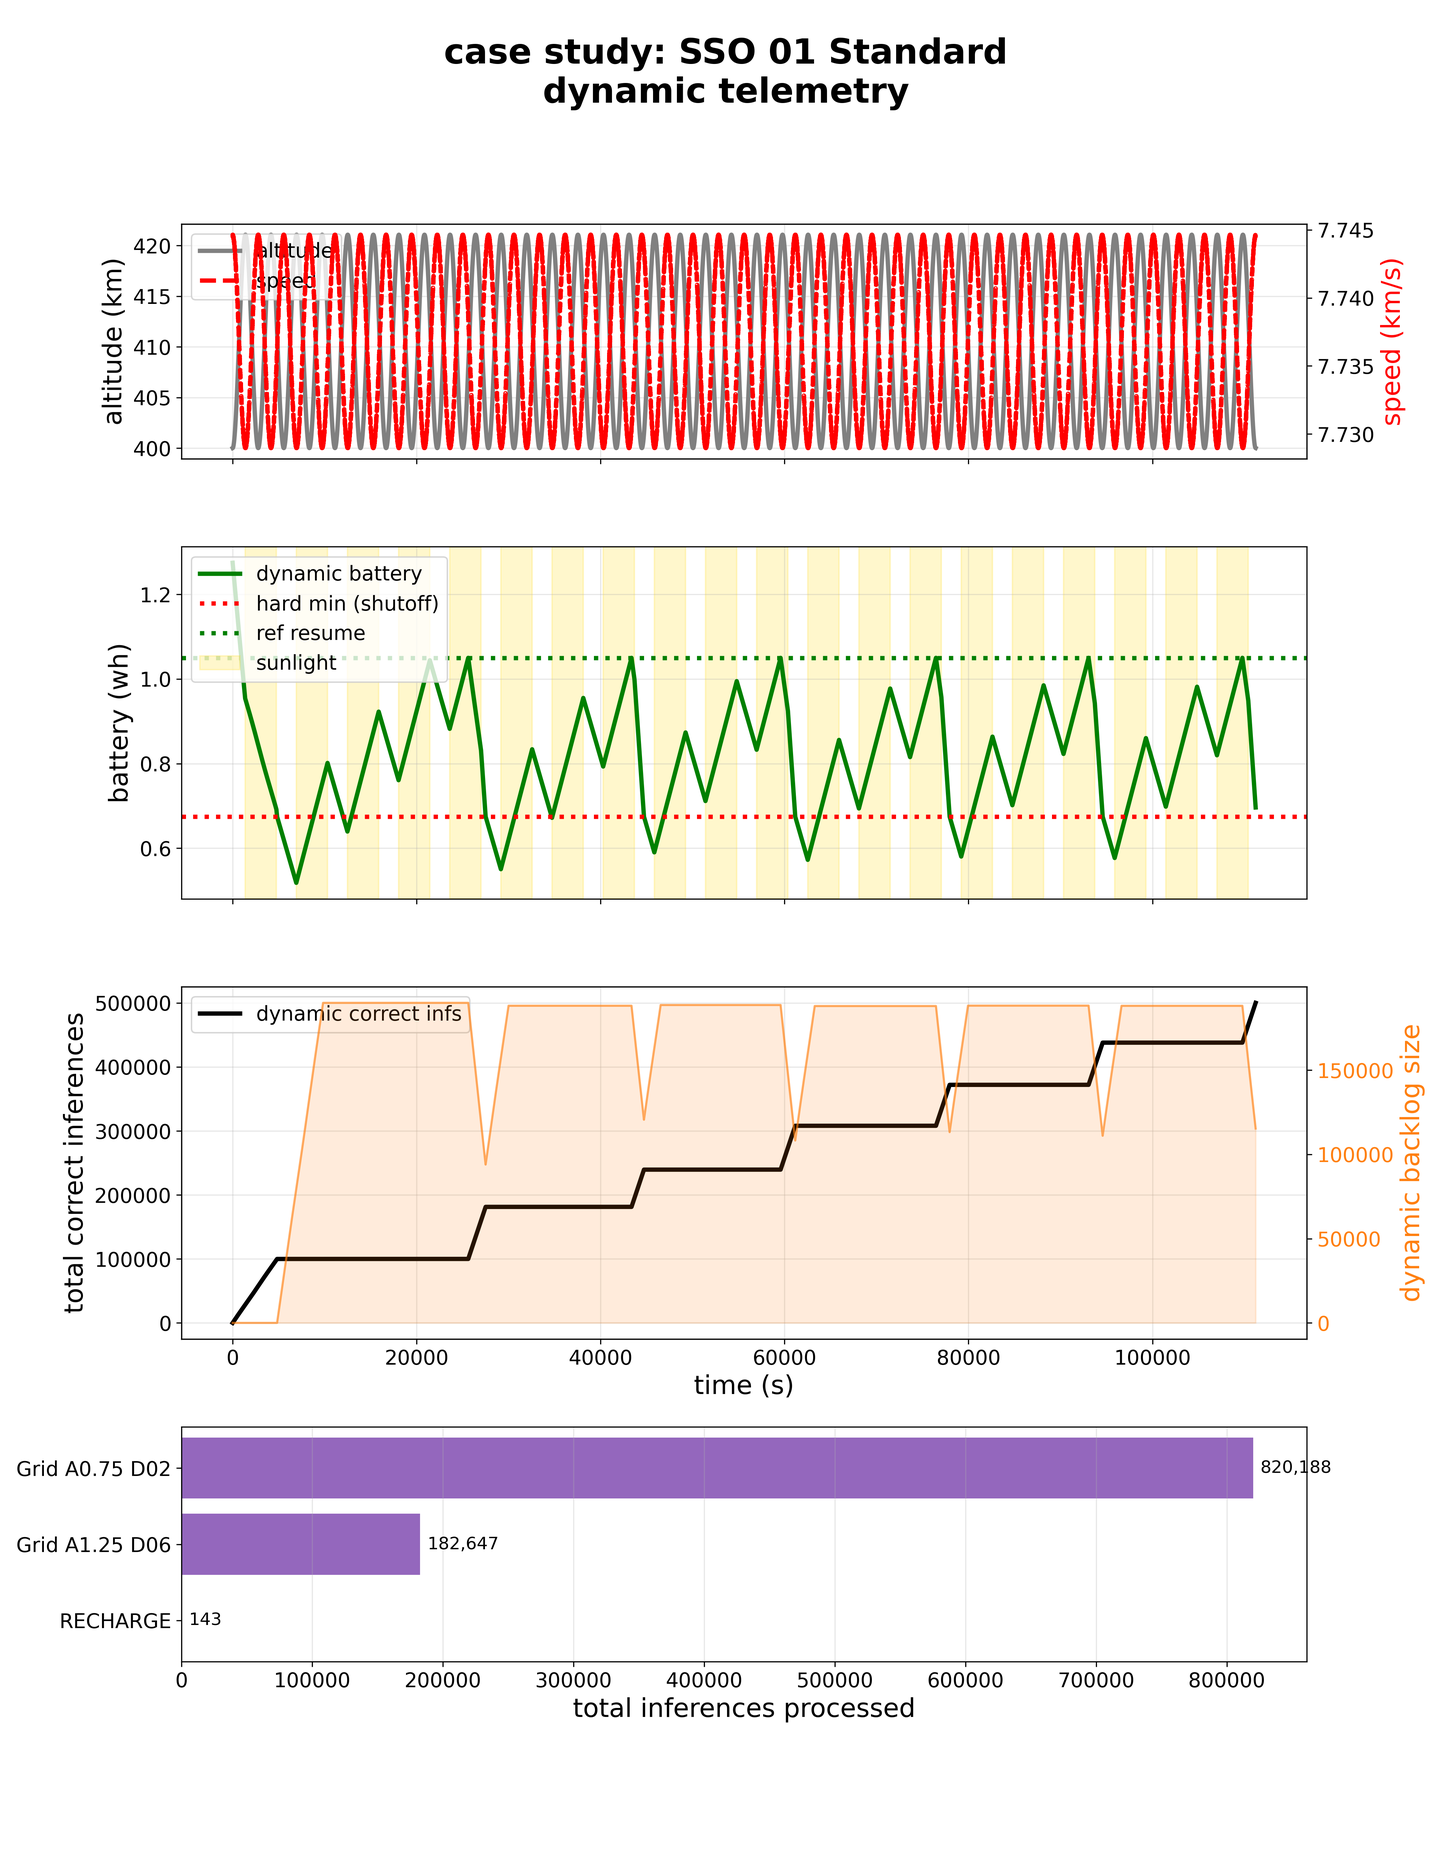
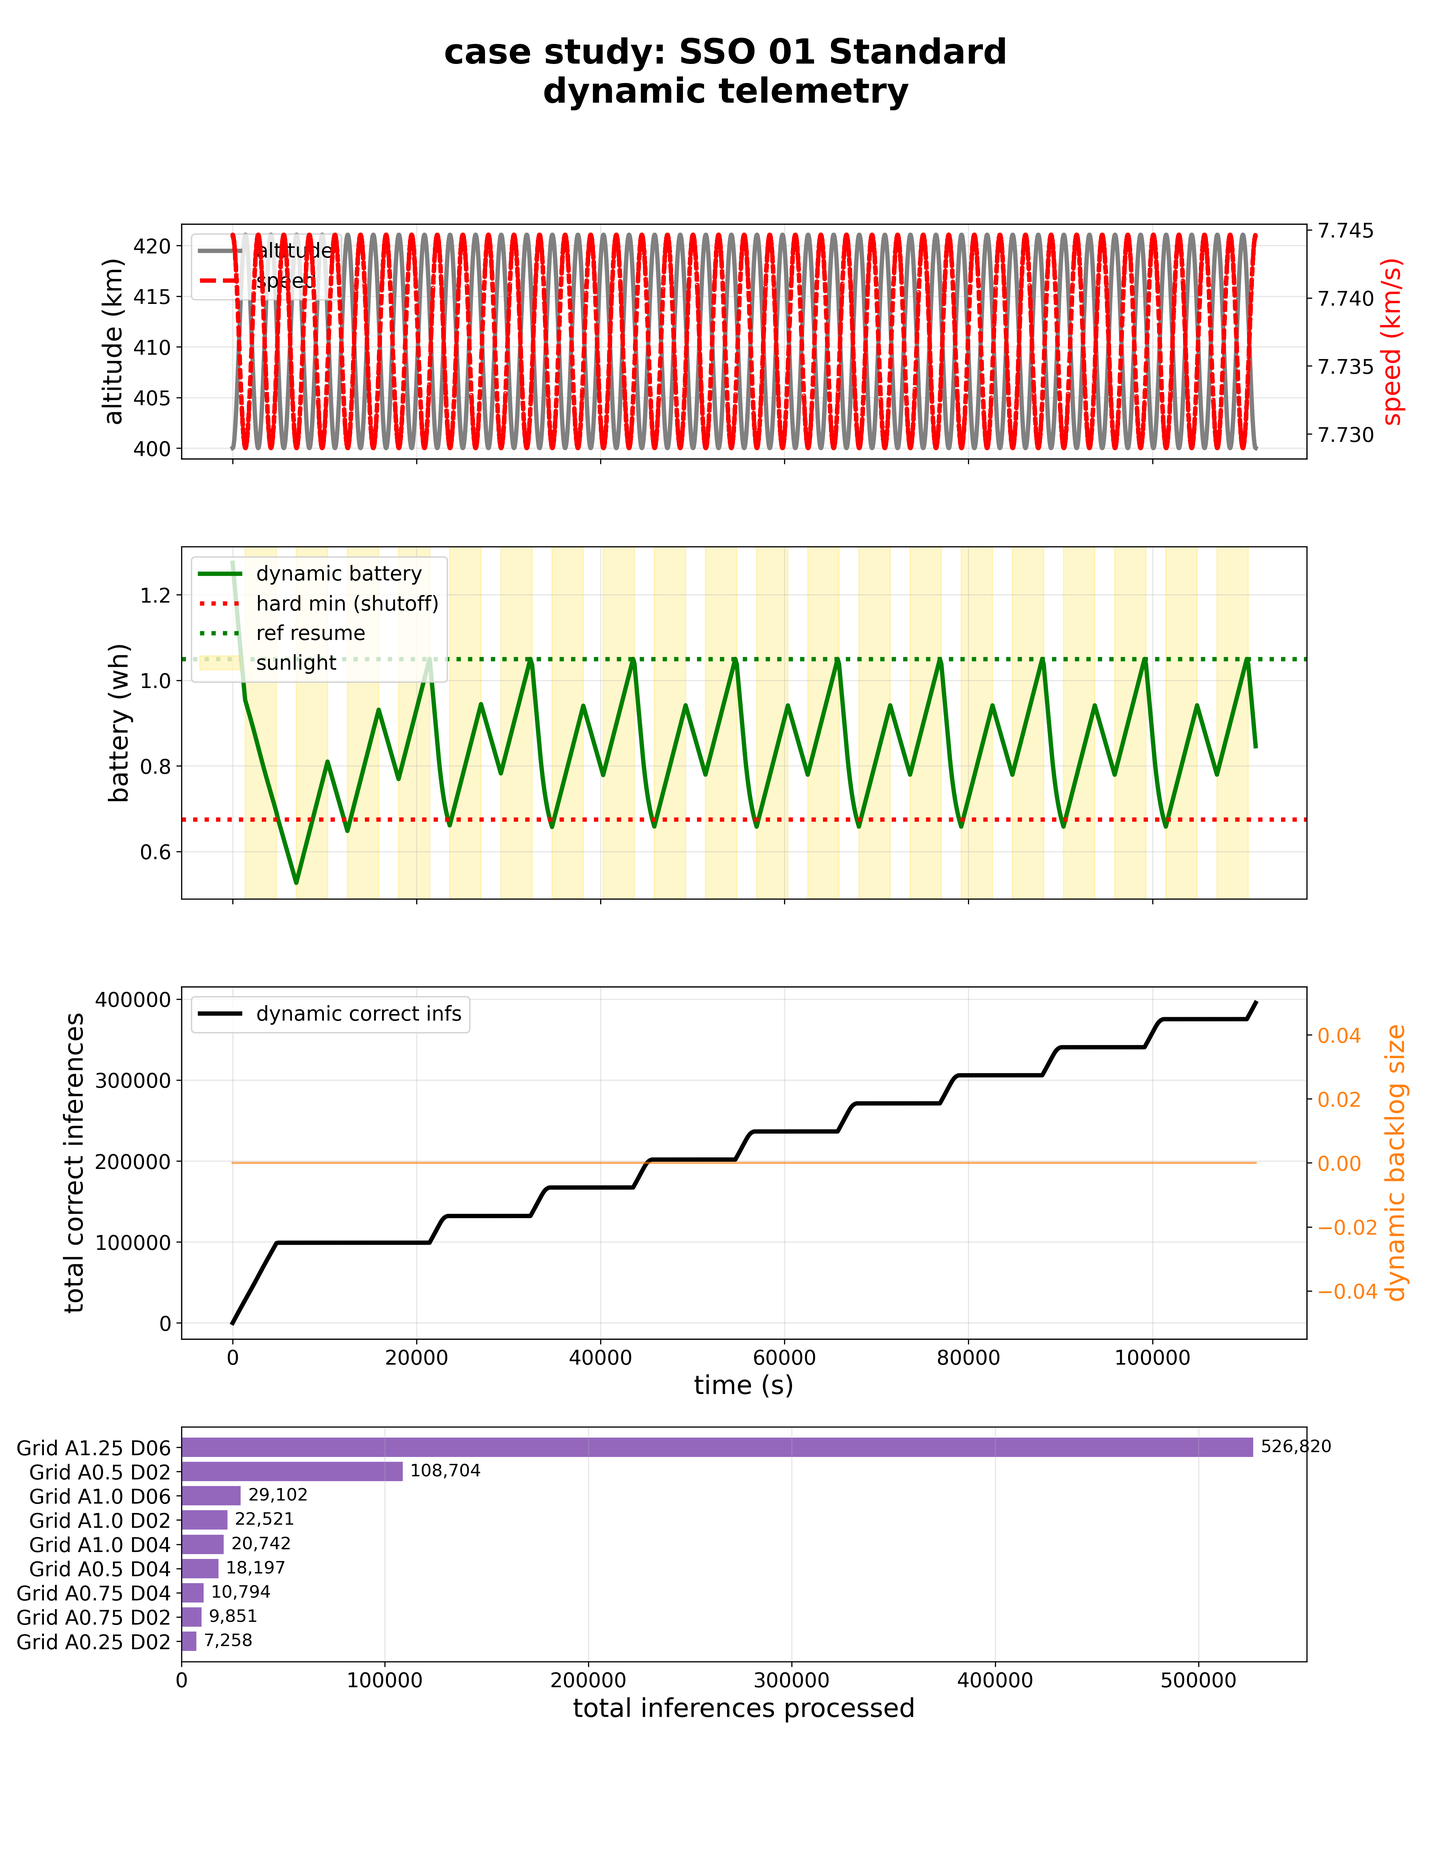
[scripts] fixes terminal outputs

diff --git a/src/scripts/dynamic_selection_sims/selection_case_studies.py b/src/scripts/dynamic_selection_sims/selection_case_studies.py
@@ -1,7 +1,6 @@
 import pandas as pd
 import numpy as np
 from pathlib import Path
-from collections import deque
 import sys
 import os
 
@@ -14,14 +13,6 @@ try:
     ROOT_DIR = get_repo_root()
 except ImportError:
     ROOT_DIR = Path(".").resolve()
-
-class FrameJob:
-    def __init__(self, job_id, total_inferences, timestamp):
-        self.id = job_id
-        self.total_inferences = total_inferences
-        self.remaining_inferences = total_inferences
-        self.timestamp = timestamp
-        self.assigned_model = None 
 
 class ContinuousSatSim:
     BASE_SYSTEM = {
@@ -42,9 +33,7 @@ class ContinuousSatSim:
         'compute_disable_pct': 0.45,
         
         'budget_horizon_frames': 1000.0,
-        'enforce_clearing': False,
         'eclipse_illumination_pct': 0.05, 
-        'buffer_max_frames': 15,          
     }
 
     @staticmethod
@@ -56,7 +45,6 @@ class ContinuousSatSim:
             'solar_generation_mw': 1500.0, 
             'alt_threshold_km': 5000.0,    
             'low_alt_target_km': 0.5,      
-            'buffer_max_frames': 25000     
         })
         return cfg
 
@@ -67,7 +55,6 @@ class ContinuousSatSim:
             'focal_length_mm': 85.0,
             'battery_capacity_wh': 1.5,
             'solar_generation_mw': 600.0, 
-            'buffer_max_frames': 5000,
         })
         return cfg
 
@@ -99,11 +86,9 @@ class ContinuousSatSim:
         return df
 
     def _select_model(self, energy_budget_j, time_budget_s, total_inferences):
-        # bounce out if resources are drained
         if energy_budget_j <= 0 or time_budget_s <= 0: 
             return None, "depleted"
         
-        # calc max inferences possible given strict time and energy budgets
         max_time_infs = time_budget_s / self.models['lat_s']
         max_eng_infs = energy_budget_j / self.models['eng_j']
         
@@ -114,17 +99,11 @@ class ContinuousSatSim:
             capable_models = self.models[clearing_mask].copy()
             best_idx = capable_models['acc_decimal'].idxmax()
             return capable_models.loc[best_idx], "clears_frame"
-            
         else:
             expected_correct = infs_possible * self.models['acc_decimal']
             best_idx = expected_correct.idxmax()
             best_model = self.models.loc[best_idx]
-            
-            lim_time = max_time_infs[best_idx]
-            lim_eng = max_eng_infs[best_idx]
-            reason = "partial_frame_energy" if lim_eng < lim_time else "partial_frame_time"
-            
-            return best_model, reason
+            return best_model, "partial_frame"
 
     def run_case_study(self, case_name, config_overrides=None, events=None):
         if self.raw_orbit.empty: return
@@ -135,12 +114,6 @@ class ContinuousSatSim:
         
         sim_data = interpolate_orbit(self.raw_orbit, self.sunlight_intervals, cfg['sim_dt_s'], cfg)
         if sim_data.empty: return
-
-        # calc orbital baseline budget for smoother energy allocation
-        total_lit_time = sum(end - start for start, end in self.sunlight_intervals)
-        expected_solar_j = (cfg['solar_generation_mw'] / 1000.0) * total_lit_time
-        expected_frames_per_orbit = len(sim_data[sim_data['demand_infs_per_sec'] > 0])
-        baseline_energy_per_frame_j = expected_solar_j / max(1, expected_frames_per_orbit)
 
         naive_configs = {
             'High_Accuracy': self.models.loc[self.models['acc_decimal'].idxmax()],
@@ -157,7 +130,6 @@ class ContinuousSatSim:
             naive_states[name] = {
                 'battery_j': BATTERY_CAPACITY_J * cfg['initial_charge_pct'],
                 'recharging': False,
-                'buffer': deque(),
                 'total_correct': 0.0,
                 'model': model,
                 'power_w': model['eng_j'] / model['lat_s'],
@@ -167,13 +139,18 @@ class ContinuousSatSim:
             }
 
         current_battery_j = BATTERY_CAPACITY_J * cfg['initial_charge_pct']
-        frame_buffer = deque() 
-        current_job = None 
         total_infs_correct = 0
 
-        report_stats = {'time_limited_count': 0, 'energy_limited_count': 0, 'buffered_count': 0, 'unprocessed_count': 0, 'total_steps': len(sim_data)}
+        report_stats = {
+            'total_demand_infs': 0.0,
+            'dropped_power_infs': 0.0, 
+            'dropped_time_infs': 0.0,
+            'dropped_energy_infs': 0.0,
+            'processed_infs': 0.0
+        }
+        
         logs = {
-            'time_rel': [], 'battery_wh': [], 'buffer_count': [], 
+            'time_rel': [], 'battery_wh': [],
             'throughput_infs': [], 'backlog_infs': [], 'model_name': [],
             'avg_accuracy': [], 'active_power_w': [], 'is_lit': [], 
             'demand_infs': [], 'alt_km': [], 'speed_km_s': [], 'cum_correct': [],
@@ -205,89 +182,60 @@ class ContinuousSatSim:
             env_energy_j = (solar_w - base_w) * dt 
             
             infs_for_this_second = (row['demand_infs_per_sec'] + extra_demand_ips) * dt
-            buffered_this_step = False
-            
-            if infs_for_this_second <= 0.0:
-                active_model_name = "Blind" 
-                report_stats['unprocessed_count'] += 1 
-            else:
-                active_model_name = "Idle"
-                if len(frame_buffer) < cfg['buffer_max_frames']:
-                    frame_job = FrameJob(i, infs_for_this_second, t_rel)
-                    frame_buffer.append(frame_job)
-                    buffered_this_step = True
-                    
-                    for ns in naive_states.values():
-                        if len(ns['buffer']) < cfg['buffer_max_frames']:
-                            ns['buffer'].append(FrameJob(i, infs_for_this_second, t_rel))
-                else:
-                    report_stats['unprocessed_count'] += 1
-            
-            if buffered_this_step and len(frame_buffer) > 1:
-                report_stats['buffered_count'] += 1
+            report_stats['total_demand_infs'] += infs_for_this_second
 
-            # smoothed energy budget calculation 
+            n = cfg['budget_horizon_frames']
             surplus_j = max(0.0, current_battery_j - limit_disable_j)
-            step_energy_budget_j = min(baseline_energy_per_frame_j + (surplus_j * 0.05), surplus_j)
+            battery_alloc_j = surplus_j / n if n > 1e-6 else surplus_j
+            step_energy_budget_j = min(battery_alloc_j + (solar_w * dt), surplus_j)
 
-            time_available_s = dt
             processed_infs_step = 0
             processing_energy_j = 0
             current_accuracy = 0.0
-            step_limitation = None 
+            active_model_name = "Idle"
 
             if current_battery_j < limit_disable_j:
                 dynamic_recharging = True
             elif dynamic_recharging and current_battery_j > limit_enable_j:
                 dynamic_recharging = False
 
-            while time_available_s > 0:
-                if cpu_blocked: active_model_name = "BLOCKED"; break
-                if dynamic_recharging or step_energy_budget_j <= 1e-6: 
+            if infs_for_this_second > 0:
+                if cpu_blocked:
+                    active_model_name = "BLOCKED"
+                    report_stats['dropped_power_infs'] += infs_for_this_second
+                elif dynamic_recharging or step_energy_budget_j <= 1e-6:
                     active_model_name = "RECHARGE"
-                    break
-                
-                if current_job is None:
-                    if len(frame_buffer) > 0:
-                        current_job = frame_buffer.popleft()
-                        total_workload = current_job.remaining_inferences + sum(j.remaining_inferences for j in frame_buffer)
-                        
-                        model, reason = self._select_model(step_energy_budget_j, time_available_s, total_workload)
-                        
-                        if reason == "partial_frame_time": step_limitation = "time"
-                        elif reason == "partial_frame_energy": step_limitation = "energy"
-                        
-                        if model is None: 
-                            frame_buffer.appendleft(current_job)
-                            current_job = None
-                            active_model_name = "RECHARGE"
-                            break
-                        current_job.assigned_model = model
-                    else: break
-                
-                if current_job:
-                    model = current_job.assigned_model
-                    active_model_name = model['Model name']
-                    current_accuracy = model['acc_decimal']
+                    report_stats['dropped_power_infs'] += infs_for_this_second
+                else:
+                    model, reason = self._select_model(step_energy_budget_j, dt, infs_for_this_second)
                     
-                    infs_possible = min(current_job.remaining_inferences, time_available_s / model['lat_s'], step_energy_budget_j / model['eng_j'])
-                    if infs_possible <= 0: active_model_name = "RECHARGE"; break
+                    if model is None:
+                        active_model_name = "RECHARGE"
+                        report_stats['dropped_power_infs'] += infs_for_this_second
+                    else:
+                        active_model_name = model['Model name']
+                        current_accuracy = model['acc_decimal']
+                        
+                        max_t_infs = dt / model['lat_s']
+                        max_e_infs = step_energy_budget_j / model['eng_j']
+                        
+                        infs_possible = min(infs_for_this_second, max_t_infs, max_e_infs)
+                        processed_infs_step = infs_possible
+                        dropped = infs_for_this_second - infs_possible
+                        
+                        if dropped > 0:
+                            if max_t_infs < max_e_infs and max_t_infs < infs_for_this_second:
+                                report_stats['dropped_time_infs'] += dropped
+                            else:
+                                report_stats['dropped_energy_infs'] += dropped
+                                
+                        e_spent = processed_infs_step * model['eng_j']
+                        processing_energy_j += e_spent
+                        current_battery_j -= e_spent
+            else:
+                active_model_name = "Blind"
 
-                    current_job.remaining_inferences -= infs_possible
-                    e_spent = infs_possible * model['eng_j']
-                    t_spent = infs_possible * model['lat_s']
-                    
-                    current_battery_j -= e_spent
-                    step_energy_budget_j -= e_spent
-                    time_available_s -= t_spent
-                    processed_infs_step += infs_possible
-                    processing_energy_j += e_spent
-                    
-                    if current_job.remaining_inferences <= 1e-6: current_job = None
-
-            if step_limitation == "time": report_stats['time_limited_count'] += 1
-            elif step_limitation == "energy": report_stats['energy_limited_count'] += 1
-            
+            report_stats['processed_infs'] += processed_infs_step
             total_load_w = base_w + (processing_energy_j / dt)
             current_battery_j = np.clip(current_battery_j + env_energy_j, 0, BATTERY_CAPACITY_J)
             total_infs_correct += processed_infs_step * current_accuracy
@@ -309,29 +257,17 @@ class ContinuousSatSim:
                     
                     ns['battery_j'] -= (time_runnable_s * ns['power_w'])
                     potential_infs = time_runnable_s * ns['ips']
-                    
-                    processed_naive_infs = 0
-                    while potential_infs > 0 and len(ns['buffer']) > 0:
-                        job = ns['buffer'][0]
-                        taken = min(potential_infs, job.remaining_inferences)
-                        job.remaining_inferences -= taken
-                        potential_infs -= taken
-                        processed_naive_infs += taken
-                        if job.remaining_inferences <= 1e-6: ns['buffer'].popleft()
+                    taken = min(potential_infs, infs_for_this_second)
                     
                     ns['battery_j'] = np.clip(ns['battery_j'] + env_energy_j, 0, BATTERY_CAPACITY_J)
-                    ns['total_correct'] += processed_naive_infs * ns['model']['acc_decimal']
+                    ns['total_correct'] += taken * ns['model']['acc_decimal']
                 
                 ns['logs_battery_wh'].append(ns['battery_j'] / 3600.0)
                 ns['logs_cum_correct'].append(ns['total_correct'])
             
-            buffer_backlog = sum(j.remaining_inferences for j in frame_buffer)
-            if current_job: buffer_backlog += current_job.remaining_inferences
-
             logs['time_rel'].append(t_rel)
             logs['battery_wh'].append(current_battery_j / 3600.0)
-            logs['buffer_count'].append(len(frame_buffer))
-            logs['backlog_infs'].append(buffer_backlog)
+            logs['backlog_infs'].append(0)
             logs['throughput_infs'].append(processed_infs_step)
             logs['model_name'].append(active_model_name)
             logs['avg_accuracy'].append(current_accuracy if processed_infs_step > 0 else np.nan)
@@ -343,20 +279,76 @@ class ContinuousSatSim:
             logs['dwell_time_s'].append(row['dwell_time_s'])
             logs['cum_correct'].append(total_infs_correct)
 
+        self._print_verbose_report(case_name, report_stats, logs, sim_data, cfg, naive_states)
+        
         plot_orbit_dynamics(logs, case_name, self.output_dir)
         plot_telemetry(logs, case_name, cfg, self.output_dir)
         plot_naive_blitz(logs, naive_states, case_name, cfg, self.output_dir)
         
         return logs
 
+    def _print_verbose_report(self, case_name, stats, logs, sim_data, cfg, naive_states=None):
+        print(f"\n{'='*60}")
+        print(f"case report: {case_name}")
+        print(f"{'='*60}")
+        
+        best_throughput = self.models.loc[self.models['correct_infs_per_sec'].idxmax()]
+        best_efficiency = self.models.loc[self.models['correct_infs_per_joule'].idxmax()]
+        best_acc = self.models.loc[self.models['acc_decimal'].idxmax()]
+        
+        print("model landscape:")
+        print(f"  * highest throughput: {best_throughput['Model name']:<20} ({best_throughput['correct_infs_per_sec']:.1f} correct inf/s)")
+        print(f"  * best efficiency:    {best_efficiency['Model name']:<20} ({best_efficiency['correct_infs_per_joule']:.1f} correct inf/j)")
+        print(f"  * max accuracy:       {best_acc['Model name']:<20} ({best_acc['acc_decimal']*100:.1f}%)")
+        print("-" * 60)
+        
+        total_demand = stats['total_demand_infs']
+        print("inference processing statistics:")
+        if total_demand > 0:
+            print(f"  * total demand:          {total_demand:,.0f} infs")
+            print(f"  * processed:             {stats['processed_infs']:,.0f} ({stats['processed_infs']/total_demand*100:5.1f}%)")
+            print(f"  * dropped (power lock):  {stats['dropped_power_infs']:,.0f} ({stats['dropped_power_infs']/total_demand*100:5.1f}%)")
+            print(f"  * dropped (time limit):  {stats['dropped_time_infs']:,.0f} ({stats['dropped_time_infs']/total_demand*100:5.1f}%)")
+            print(f"  * dropped (eng limit):   {stats['dropped_energy_infs']:,.0f} ({stats['dropped_energy_infs']/total_demand*100:5.1f}%)")
+        print("-" * 60)
+
+        if naive_states:
+            print("dynamic vs naive performance gain:")
+            dynamic_total = logs['cum_correct'][-1] if logs['cum_correct'] else 0
+            
+            for name, ns in naive_states.items():
+                clean_name = name.replace('_', ' ').lower()
+                naive_total = ns['total_correct']
+                if naive_total > 0:
+                    gain_pct = ((dynamic_total - naive_total) / naive_total) * 100.0
+                    print(f"  * vs {clean_name:<20}: +{gain_pct:.1f}%")
+                else:
+                    print(f"  * vs {clean_name:<20}: +inf% (baseline scored 0)")
+                    
+        print(f"{'='*60}\n")
+
+        print("model utilization (% of active processing time):")
+        df_log = pd.DataFrame({'model': logs['model_name']})
+        compute_models = df_log[~df_log['model'].str.lower().isin(['idle', 'recharge', 'blocked', 'blind'])] 
+        
+        if not compute_models.empty:
+            breakdown = compute_models['model'].value_counts(normalize=True) * 100
+            for name, pct in breakdown.items():
+                print(f"  * {name:<30}: {pct:5.1f}%")
+        else:
+            print("  (no models executed)")
+        print(f"{'='*60}\n")
+
 if __name__ == "__main__":
     model_json = ROOT_DIR / "data/compiled_characterization.json" 
     orbit_path = ROOT_DIR / "data/stk"
     out_dir = ROOT_DIR / "results/case_studies"
 
-    # sim_heo = ContinuousSatSim(orbit_path, model_json, out_dir, sat_prefix='HEO', num_orbits=1)
-    # sim_heo.run_case_study("HEO_01_Standard", config_overrides=ContinuousSatSim.get_heo_config())
-    
     sim_sso = ContinuousSatSim(orbit_path, model_json, out_dir, sat_prefix='SSO', num_orbits=20)
     sso_cfg = ContinuousSatSim.get_sso_config()
-    sim_sso.run_case_study("SSO_01_Standard", config_overrides=sso_cfg)
+    
+
+    burst_events = [
+        {'start': 5000, 'duration': 300, 'extra_demand_ips': 80.0}, # Target Rich (Time Limit forced)
+    ]
+    sim_sso.run_case_study("SSO_01_Standard", config_overrides=sso_cfg, events=None)
